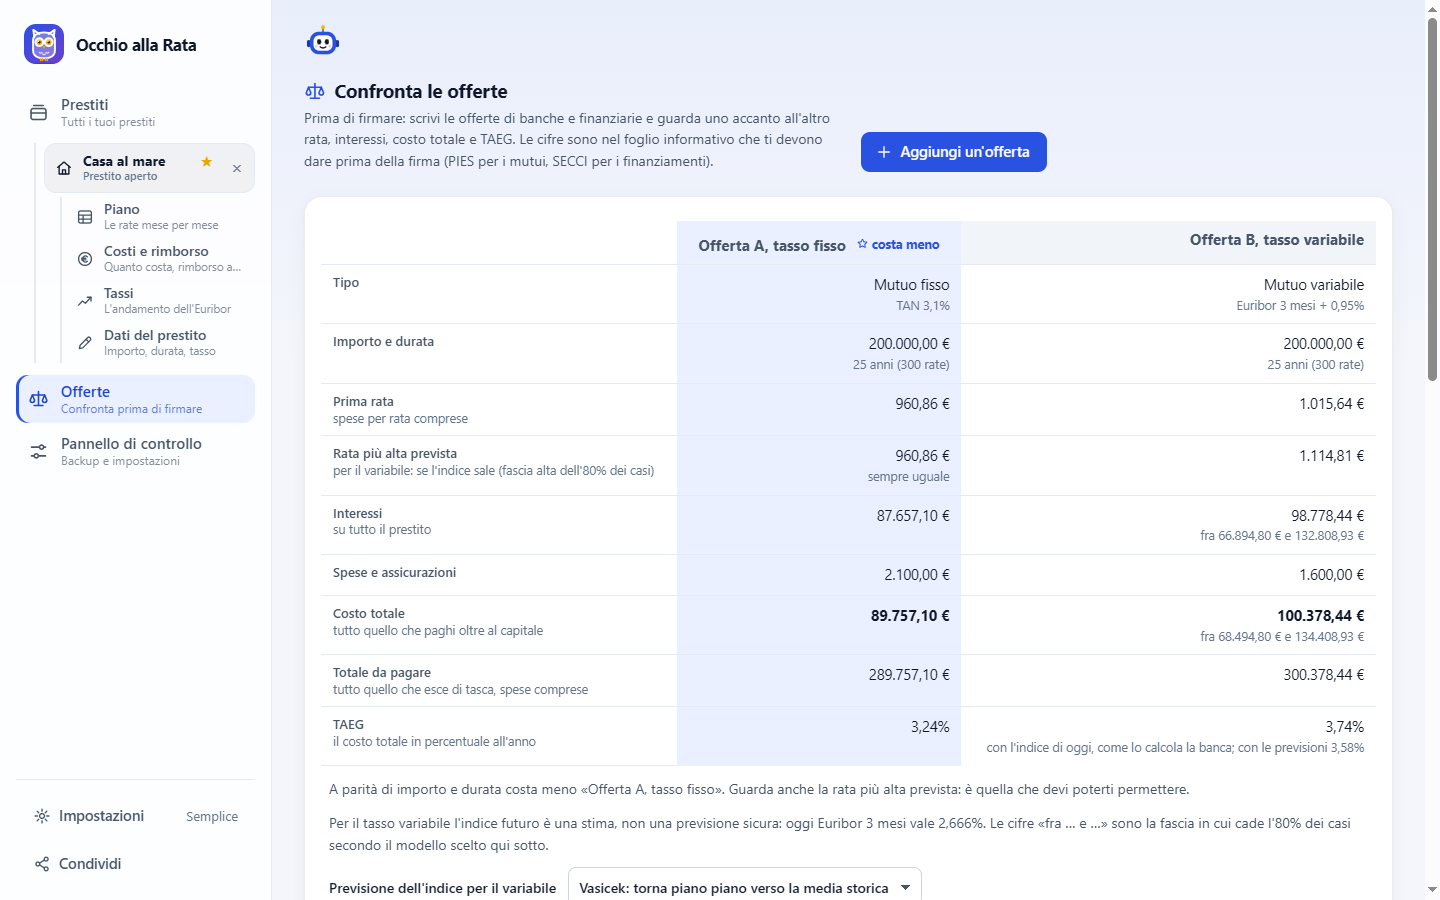
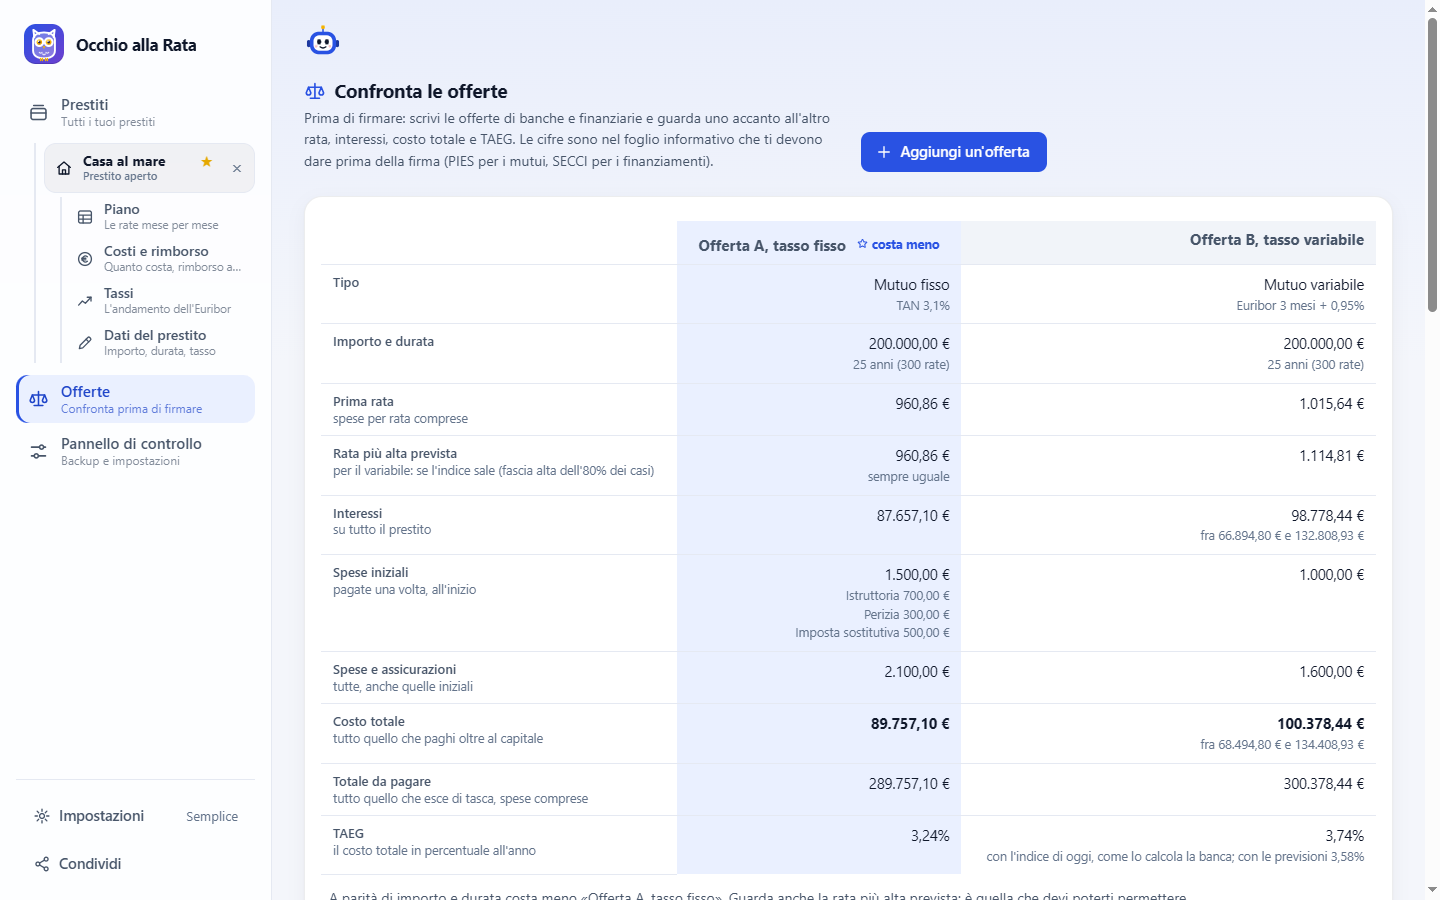
Confronto delle offerte: le spese iniziali voce per voce
La tabella di confronto mostrava solo il totale «Spese e assicurazioni»: chi
scrive le spese una per una non vedeva le differenze fra le offerte. Ora c'è
una riga «Spese iniziali» con il totale di ogni offerta e sotto le voci, una
per riga, più «fuori dal TAEG» per notaio e agenzia immobiliare. La riga
compare solo se almeno un'offerta ha spese iniziali. Rifatta la schermata
delle offerte del README; aggiornati README, VERSIONI.md e la sezione 44
della documentazione.

diff --git a/offerte.js b/offerte.js
@@ -57,6 +57,15 @@
   M.speseSospette = speseSospette;
 
   // ---------- Tabella di confronto ----------
+  // Le spese iniziali di un'offerta: il totale, poi una voce per riga (una sola: il suo nome), così le offerte si
+  // confrontano voce per voce; in fondo quali restano fuori dal TAEG (notaio, agenzia immobiliare).
+  function speseIniziali(e, p) {
+    if (!(p.spese_iniziali > 0)) return ['—'];
+    const voci = (p.spese_iniziali_voci || []).filter(v => v.euro > 0);
+    const fuori = e.atteso.c.speseFuoriTaeg > 0 ? voci.filter(v => Calcolo.fuoriDalTaeg(v.cosa)).map(v => `«${v.cosa}»`) : [];
+    return [euro(p.spese_iniziali), ...(voci.length === 1 ? [voci[0].cosa] : voci.map(v => `${v.cosa || 'altro'} ${euro(v.euro)}`)),
+      ...(fuori.length ? [`${fuori.join(' e ')} fuori dal TAEG`] : [])].filter(Boolean);
+  }
   function disegnaTabella(contenitore) {
     const offerte = Archivio.offerte(), modello = modelloScelto();
     const esiti = offerte.map(o => ({ o, e: calcola(o, modello) }));
@@ -76,7 +85,8 @@
       // A tasso fisso la rata è sempre quella (solo l'ultima, che chiude il debito, può cambiare di pochi euro).
       riga('Rata più alta prevista', 'per il variabile: se l\'indice sale (fascia alta dell\'80% dei casi)', e => e.fisso ? [euro(e.atteso.prima), piccolo('sempre uguale')] : [euro(e.alto.massima)]),
       riga('Interessi', 'su tutto il prestito', e => e.fisso ? [euro(e.atteso.c.interessi)] : [euro(e.atteso.c.interessi), forbice(e, 'interessi')]),
-      riga('Spese e assicurazioni', null, e => [euro(e.atteso.c.costoTotale - e.atteso.c.interessi)]),
+      ...(offerte.some(o => o.parametri.spese_iniziali > 0) ? [riga('Spese iniziali', 'pagate una volta, all\'inizio', (e, p) => speseIniziali(e, p).map((t, i) => i ? piccolo(t) : t))] : []),
+      riga('Spese e assicurazioni', 'tutte, anche quelle iniziali', e => [euro(e.atteso.c.costoTotale - e.atteso.c.interessi)]),
       riga('Costo totale', 'tutto quello che paghi oltre al capitale', e => e.fisso ? [crea('strong', {}, euro(e.atteso.c.costoTotale))] : [crea('strong', {}, euro(e.atteso.c.costoTotale)), forbice(e, 'costoTotale')]),
       riga('Totale da pagare', 'tutto quello che esce di tasca, spese comprese', e => [euro(e.atteso.c.totaleDaPagare)]),
       ...(offerte.some(o => o.parametri.anticipo > 0 && !variabile(o.parametri)) ? [riga('In tutto, con l\'anticipo', 'quanto paghi per l\'acquisto', (e, p) => [euro((variabile(p) ? 0 : p.anticipo || 0) + e.atteso.c.totaleDaPagare)])] : []),

diff --git a/docs/progetto-generale.md b/docs/progetto-generale.md
@@ -818,7 +818,7 @@ Nel repository c'è un file vuoto `.nojekyll` (25 ottobre 2026): dice a GitHub P
 Chiesto dall'utente: "possiamo migliorare il github in modo da presentare bene il progetto?", prima di renderlo pubblico.
 
 - **README**: in testa logo, nome, la frase «La banca ti addebita la rata giusta? Controllalo al centesimo.», i collegamenti (l'app su GitHub Pages, come si usa, domande, documentazione, contribuire) e due schermate, computer e telefono. Poi «Perché», «Che cosa fa», «I tuoi dati restano tuoi», una tabella di schermate, «Come si usa» (telefono, computer, primi passi) e le domande frequenti. La guida dettagliata di prima è intatta, dentro un riquadro richiudibile (`<details>`); le sezioni tecniche restano in fondo, con in più «Segnalazioni e contributi». I collegamenti alle segnalazioni sono relativi (`../../issues/new/choose`), così valgono anche se il repository cambia nome o proprietario.
-- **Schermate** (`docs/immagini/`, circa 2 MB): piano, tassi con la proiezione, costi e rimborso, offerte, benvenuto, tema Terminale, telefono chiaro e scuro. Sono fatte con **dati inventati** (un mutuo variabile «Casa al mare» di 180.000 € sull'Euribor 6 mesi, le cui rate passate sono prese dal calcolo, un finanziamento auto con maxirata e due offerte), da Edge senza finestra con lo script `crea-schermate.js` (nella cartella temporanea della sessione, non conservato): carica i dati con `Archivio.importa`, riempie le rate passate con `POST rate` dal piano calcolato, e fotografa a 1440×900 e a 390×844 (doppia densità). Vanno rifatte quando l'aspetto cambia molto. **Rifatte il 26 ottobre 2026** (chiesto dall'autore: GitHub va aggiornato con tutte le novità; mancavano «Condividi», il gufo accanto alla scritta di benvenuto e le pagine di oggi) con i prestiti di «Prova con degli esempi» (sezione 38: mutuo variabile «Casa al mare» sull'Euribor 3 mesi, le due offerte), copiati come dati normali in un profilo di prova perché non comparisse la striscia degli esempi; robottino richiuso, versione semplice, il variabile come principale, e «riduci movimento» attivo (`prefers-reduced-motion` emulato), così nessuna foto prende un'animazione a metà. Lo script, `crea-schermate.js`, sta nella cartella temporanea della sessione: per rifarle basta ripetere questi passi. **Il 27 ottobre 2026** è stata rifatta, con gli stessi passi, solo `costi.png`: sotto «Spese iniziali» ora ci sono le voci dell'esempio (sezione 44).
+- **Schermate** (`docs/immagini/`, circa 2 MB): piano, tassi con la proiezione, costi e rimborso, offerte, benvenuto, tema Terminale, telefono chiaro e scuro. Sono fatte con **dati inventati** (un mutuo variabile «Casa al mare» di 180.000 € sull'Euribor 6 mesi, le cui rate passate sono prese dal calcolo, un finanziamento auto con maxirata e due offerte), da Edge senza finestra con lo script `crea-schermate.js` (nella cartella temporanea della sessione, non conservato): carica i dati con `Archivio.importa`, riempie le rate passate con `POST rate` dal piano calcolato, e fotografa a 1440×900 e a 390×844 (doppia densità). Vanno rifatte quando l'aspetto cambia molto. **Rifatte il 26 ottobre 2026** (chiesto dall'autore: GitHub va aggiornato con tutte le novità; mancavano «Condividi», il gufo accanto alla scritta di benvenuto e le pagine di oggi) con i prestiti di «Prova con degli esempi» (sezione 38: mutuo variabile «Casa al mare» sull'Euribor 3 mesi, le due offerte), copiati come dati normali in un profilo di prova perché non comparisse la striscia degli esempi; robottino richiuso, versione semplice, il variabile come principale, e «riduci movimento» attivo (`prefers-reduced-motion` emulato), così nessuna foto prende un'animazione a metà. Lo script, `crea-schermate.js`, sta nella cartella temporanea della sessione: per rifarle basta ripetere questi passi. **Il 27 ottobre 2026** sono state rifatte, con gli stessi passi, solo `costi.png` e `offerte.png`: sotto «Spese iniziali» ora ci sono le voci dell'esempio, e il confronto delle offerte ha la riga nuova (sezione 44).
 - **Anteprima per i social** (`docs/immagini/anteprima-social.png`, 1280×640, sotto 1 MB come chiede GitHub): logo, nome, frase, tre punti e il telefono. Non si mostra da sola: va caricata a mano (sotto).
 - **Anteprima del link al sito** (25 ottobre 2026, chiesta per condividere il sito su LinkedIn): in testa a `index.html` ci sono la descrizione per i motori di ricerca (`description`) e i tag Open Graph e Twitter (titolo, descrizione, indirizzo, immagine). Quando il link al sito si incolla su LinkedIn, WhatsApp, Telegram o Facebook compare un riquadro con `anteprima-social.png`. L'immagine e l'indirizzo sono scritti per intero (`https://alessandrosallam-sys.github.io/occhio-alla-rata/…`), perché i social non accettano percorsi relativi: se il sito cambia indirizzo vanno aggiornati. `sw.js` non li mette nella copia offline: legge solo `src` e `href` senza `:`. LinkedIn tiene in memoria l'anteprima già vista: per rinfrescarla c'è il suo Post Inspector (https://www.linkedin.com/post-inspector/).
   **Dal 26 ottobre 2026** l'immagine dei tag è `anteprima-social.jpg`, una copia JPEG di 99 KB della PNG (478 KB). Più fonti riportano che WhatsApp non mostra l'immagine dell'anteprima oltre circa 300 KB (non c'è un limite scritto da WhatsApp): con la PNG il link arrivava senza figura. La copia l'ha fatta Edge senza finestra (la PNG mostrata a 1280×640 e fotografata in JPEG con qualità 86, script nella cartella temporanea della sessione): se si rifà la PNG, va rifatta anche lei. La PNG resta per GitHub (Social preview, fino a 1 MB). WhatsApp tiene in memoria l'anteprima di un link già mandato.
@@ -1126,6 +1126,7 @@ Prima le spese iniziali erano una casella sola (`spese_iniziali`): chi aveva per
 - **Dove compare**: lo stesso elenco serve alla guida a una domanda per pagina (percorso breve e offerte: `controlloBreve`, `leggiDomande`), al percorso completo (`creaDomanda`), alla pagina «Dati del prestito», alle «Regole del contratto» e alle carte delle offerte (`creaCampo`, `leggiCampi`, `aggiornaVisibili`, quest'ultima con il totale per la domanda su come sono state pagate). Gli ascoltatori di scrittura e di clic sono uno solo, su `document`: valgono per ogni elenco. Togliere una riga manda un evento `change`, così la carta di un'offerta si salva da sola e le domande che dipendono dalle spese si aggiornano. I moduli «Dati del prestito» e «Regole del contratto» confrontano i valori letti con quelli salvati come testo JSON (`soloCambiati`), perché le voci sono un elenco: senza cambiare niente dicono ancora «Nessun dato cambiato».
 - **Notaio e agenzia immobiliare** (`Calcolo.fuoriDalTaeg`, `Calcolo.speseFuoriTaeg` in `calcolo.js`): fra i nomi suggeriti ci sono il notaio e l'agenzia, che l'utente aveva chiesto, ma il TAEG per legge non conta le spese notarili (art. 120-quinquies e 121 del Testo unico bancario: il costo totale del credito esclude «quelle notarili»), e l'agenzia immobiliare è un costo della casa, non del prestito. Contarli nel TAEG lo avrebbe reso più alto di quello della banca, con l'avviso sbagliato «il TAEG del contratto è più basso del vero». Le voci il cui nome contiene «notai», «notar», «rogit» o «immobiliar» restano nel costo totale e nel totale da pagare, ma il TAEG le rimette nei soldi ricevuti. «Agenzia» da sola, il consulente e il mediatore del credito restano nel TAEG, come prevede la legge per i costi di mediazione. Nell'estinzione anticipata quelle voci non sono «costi restituiti». L'elenco lo dice sotto il totale (««Notaio» non entra nel TAEG: …»), e la tabella dei costi sotto «Spese iniziali».
 - **Nei riepiloghi**: le voci compaiono accanto al totale (`dettaglioSpese`, `M.dettaglioSpese`): «2.400,00 € (Istruttoria 900,00 €, Notaio 1.500,00 €)», con «altro» per una voce senza nome; una voce sola con il nome dice solo il nome. Così nel riepilogo della guida («Altre spese»), in quello dell'offerta, nella pagina «Dati del prestito» e nella tabella dei costi (`speseIniziali` in `costi.js`).
+- **Nel confronto delle offerte** (`speseIniziali` in `offerte.js`, chiesto dall'autore lo stesso giorno: «L'hai messo anche per confronto offerta?»): la tabella ha una riga «Spese iniziali», subito prima di «Spese e assicurazioni», con il totale di ogni offerta e sotto, in piccolo, una voce per riga («Istruttoria 700,00 €», «Perizia 300,00 €»…; una voce sola: il suo nome; senza nome: «altro»), così le offerte si confrontano voce per voce. In fondo alla cella, se ci sono, «Notaio» e agenzia immobiliare con «fuori dal TAEG». La riga c'è solo se almeno un'offerta ha spese iniziali; un'offerta senza ha il trattino. «Spese e assicurazioni» ora dice «tutte, anche quelle iniziali», perché le comprende. Il robottino spiega la riga con la frase di «Spese iniziali» della tabella dei costi.
 - **Testi**: domanda «Quali spese hai pagato all'inizio, una volta sola?», spiegazioni corte e lunghe, frasi del robottino, spiegazioni al passaggio del mouse per i pulsanti, la × e il totale (`spiegazioni.js`), aiuto del campo in `archivio.js`.
 - **Stile** (sezione 11 di `stile.css`): nella guida le caselle sono alte come le altre domande, nei moduli normali. L'elenco è un contenitore (`container: spese / inline-size`): sotto i 400 px (telefono, carte delle offerte) la cifra va a capo sotto il nome e ogni spesa sta in un riquadro, così si vede quale cifra va con quale nome.
 - **Esempi**: il mutuo «Casa al mare» e l'«Offerta A» hanno le spese iniziali scritte una per una (istruttoria, perizia, imposta sostitutiva), con lo stesso totale di prima.
@@ -1134,4 +1135,5 @@ Prima le spese iniziali erano una casella sola (`spese_iniziali`): chi aveva per
 
 - **Node** (script temporaneo): 22 controlli sul motore. Senza voci, e con voci senza notaio, i conti sono identici al solo totale; con il notaio il costo totale cresce della sua cifra e il TAEG non cambia; «agenzia immobiliare» e «spese notarili» fuori, il consulente dentro; con il solo notaio il TAEG è il tasso effettivo (1 + TAN/12)^12 − 1; dieci nomi riconosciuti o no come previsto; tre prestiti (fisso, finanziamento con le spese dentro il prestito, assicurazione facoltativa) con `Calcolo.costi` uguale campo per campo a quello del commit precedente.
 - **Edge senza finestra** (script temporaneo, 53 controlli, nessun errore in pagina): guida di un'offerta a tasso fisso (una riga vuota e il cursore lì, le sei voci pronte del mutuo, «Perizia» che riempie la riga vuota e sparisce, cursore sulla cifra, «In tutto: 1.300,00 €», il notaio con la nota sul TAEG, «Un'altra spesa», la riga con il nome e senza cifra che ferma «Avanti», la ×, le righe ritrovate tornando indietro, la domanda su come si pagano, il riepilogo con le voci, l'offerta salvata con le voci, nel confronto il notaio nel costo e non nel TAEG); la carta dell'offerta (tre righe, spiegazione come suggerimento, la × che salva da sola, una spesa nuova scritta con Tab dal nome alla cifra e salvata); un salvataggio di prima con il solo totale (che resta dopo due ricaricamenti) nella pagina «Dati del prestito» (una riga senza nome, «Nessun dato cambiato», istruttoria e notaio salvati, i dati in parole, la riga dei costi e il TAEG come con la sola istruttoria); il percorso completo (le righe, tutte tolte: una riga vuota e sparisce la domanda su come sono pagate; il riepilogo «250,00 € iniziali (Perizia)»; la configurazione salvata); le «Regole del contratto» nella versione avanzata («Nessuna regola modificata», una spesa aggiunta); un finanziamento sul telefono (le tre voci pronte, cifra sotto il nome dentro un riquadro, niente scorrimento orizzontale, nemmeno nelle offerte; sul computer su una riga, senza riquadro); gli esempi (totali di prima, voci nell'«Offerta A»). Guardate le schermate della guida (1440 e 390 px), della carta dell'offerta, del modulo dei dati e dei costi.
+- **Edge senza finestra, il confronto delle offerte** (script temporaneo, 15 controlli, nessun errore in pagina): con gli esempi l'«Offerta A» ha il totale e le tre voci in piccolo, l'«Offerta B» il solo totale; la riga sta prima di «Spese e assicurazioni», che dice di comprenderle; il notaio aggiunto dalla carta dell'offerta compare con «fuori dal TAEG», il costo totale cresce di 2.000 € e il TAEG resta uguale; una voce sola mostra il nome, una senza nome «altro», un'offerta senza spese il trattino; senza spese iniziali in nessuna offerta la riga sparisce; sul telefono la pagina non scorre di lato (la tabella scorre dentro la sua carta, come prima). Guardate le schermate a 1440 e 390 px.
 - **Non provato**: Safari e Firefox (le query sul contenitore ci sono da Safari 16 e Firefox 110); il percorso breve di un prestito già pagato fino alla domanda sulle spese (usa le stesse funzioni della guida delle offerte, provata).

diff --git a/README.md b/README.md
@@ -36,7 +36,7 @@ Occhio alla Rata parte da quello che hai sull'estratto conto: scrivi alcune rate
 - **Calcola il costo vero.** Interessi pagati e da pagare, spese, assicurazioni e TAEG, confrontato con quello del contratto. Le spese iniziali (perizia, istruttoria, notaio, consulente…) si scrivono una per riga: il totale lo fa il programma.
 - **Stima le rate future.** Previsioni dell'Euribor con più modelli statistici: di base usa quello che negli anni passati ha sbagliato di meno.
 - **Simula il rimborso anticipato.** Quanto risparmi rimborsando tutto o una parte, con penali e costi restituiti secondo la legge italiana.
-- **Confronta le offerte.** Prima di firmare: rata, interessi, costo totale e TAEG uno accanto all'altro.
+- **Confronta le offerte.** Prima di firmare: rata, interessi, spese voce per voce, costo totale e TAEG uno accanto all'altro.
 - **Segue più prestiti insieme.** Mutuo, auto, prestito personale, con i totali del mese.
 - **Si prova prima, con degli esempi.** «Prova con degli esempi» apre un prestito inventato per tipo, con le rate già pagate: per vedere come funziona prima di scrivere i propri dati, che restano come sono.
 - **È pensato per chi non sa niente di mutui.** Una domanda per pagina, spiegazioni semplici e un piccolo assistente che spiega ogni cosa al passaggio del mouse (sul telefono con «Che cos'è?»).
@@ -99,7 +99,7 @@ I dati restano sul dispositivo dove li scrivi: per passarli dal computer al tele
 4. Nella pagina **Tassi** ci sono i valori dell'indice. Se il tuo indice è un Euribor, il programma li scarica da solo a ogni apertura (vedi sotto); altrimenti li scrivi o li incolli a mano. Il grafico mostra tutta la storia dell'Euribor dal 1999 (all'inizio solo il periodo del tuo mutuo) e, a destra, la proiezione in avanti con diversi modelli statistici (media delle variazioni, nessun cambiamento, ARIMA, VAR, GARCH, Vasicek) o con le attese del mercato lette dalla curva degli Euribor di oggi, con le fasce di incertezza. Un confronto all'indietro dice quale modello ha sbagliato di meno negli anni passati. Ogni proiezione mostra anche cosa vorrebbe dire per le tue rate in tre scenari (fascia bassa, atteso, fascia alta), e puoi scegliere quale di questi usa il piano per stimare le rate future.
 5. Dal **Pannello di controllo** puoi salvare un backup di tutti i dati in un file e ricaricarlo (anche su un altro computer), e scegliere le impostazioni. Le regole del contratto e la taratura automatica stanno nella pagina **Regole del contratto** di ogni prestito (versione avanzata).
 6. Nella pagina **Costi e rimborso** di ogni prestito trovi **quanto costa il prestito**: interessi, spese, assicurazioni, costo totale e TAEG. Se scrivi il TAEG del contratto, il programma ti dice se il suo calcolo coincide. Sotto c'è l'**estinzione anticipata**: scegli quando e quanto rimborsare (tutto o una parte) e vedi interessi risparmiati, penale o indennizzo secondo la legge, costi restituiti e, per un rimborso parziale, la nuova rata o la nuova fine.
-7. **Devi ancora firmare?** Nella pagina **Offerte** (o dalla prima schermata, con «Confronta delle offerte») premi «Aggiungi un'offerta»: come per i prestiti, una domanda per pagina ti chiede i numeri del foglio informativo (PIES per i mutui, SECCI per i finanziamenti), dicendoti dove trovarli, e alla fine ti mostra l'offerta calcolata, con il TAEG confrontato con quello della banca. Se scrivi fra le spese per rata una cifra grande quanto la rata (succede: la rata la calcola il programma), te lo dice. Nel confronto rata, interessi, costo totale e TAEG compaiono uno accanto all'altro, e l'offerta che costa meno è evidenziata. Per il tasso variabile vedi anche quanto potrebbe salire la rata, secondo un modello di previsione dell'indice. Quando hai scelto, «Segui questo prestito» passa i dati alla configurazione guidata.
+7. **Devi ancora firmare?** Nella pagina **Offerte** (o dalla prima schermata, con «Confronta delle offerte») premi «Aggiungi un'offerta»: come per i prestiti, una domanda per pagina ti chiede i numeri del foglio informativo (PIES per i mutui, SECCI per i finanziamenti), dicendoti dove trovarli, e alla fine ti mostra l'offerta calcolata, con il TAEG confrontato con quello della banca. Se scrivi fra le spese per rata una cifra grande quanto la rata (succede: la rata la calcola il programma), te lo dice. Nel confronto rata, interessi, costo totale e TAEG compaiono uno accanto all'altro, con le spese iniziali di ogni offerta voce per voce (istruttoria, perizia, notaio…), e l'offerta che costa meno è evidenziata. Per il tasso variabile vedi anche quanto potrebbe salire la rata, secondo un modello di previsione dell'indice. Quando hai scelto, «Segui questo prestito» passa i dati alla configurazione guidata.
 8. Hai più di un prestito? Nella pagina **Prestiti** li vedi tutti, con il totale delle rate del mese e del debito residuo, e con «Aggiungi un prestito» ne segui un altro. Le pagine di ciascuno compaiono quando ci entri.
 
 Nella pagina Tassi (versione avanzata) il modulo della proiezione sta richiuso in una riga sotto il grafico («Cambia» lo apre). Sul telefono il menù generale è nella barra in basso, le pagine del prestito aperto in una barra sotto la testata (scorre di lato), e la tabella del piano scorre in orizzontale tenendo ferma la colonna delle rate. Il tema chiaro o scuro segue quello del sistema.

diff --git a/VERSIONI.md b/VERSIONI.md
@@ -9,7 +9,7 @@ Il [sito](https://alessandrosallam-sys.github.io/occhio-alla-rata/) si aggiorna 
 Già sul sito, non ancora in una versione numerata.
 
 - **Le rate bastano**: mentre scrivi le rate, appena i conti tornano tutti al centesimo il programma lo dice in chiaro («Basta così: non serve scrivere altre rate») e «Avanti» passa a «Ci penso io» invece di chiederti la rata dopo. Se vuoi scriverne altre lo stesso, c'è un pulsante apposta.
-- **Le spese iniziali una per una**: invece di un solo numero da sommare a mano, scrivi ogni spesa nella sua riga (perizia, istruttoria, notaio, consulente…), con il nome se vuoi, e il totale lo fa il programma. I pulsanti aggiungono le spese più comuni con il nome già scritto; la × toglie una riga. Vale nella guida, nelle offerte e nei dati del prestito. Il notaio e l'agenzia immobiliare contano nel costo totale ma non nel TAEG, come per legge, così il confronto con il TAEG della banca resta giusto.
+- **Le spese iniziali una per una**: invece di un solo numero da sommare a mano, scrivi ogni spesa nella sua riga (perizia, istruttoria, notaio, consulente…), con il nome se vuoi, e il totale lo fa il programma. I pulsanti aggiungono le spese più comuni con il nome già scritto; la × toglie una riga. Vale nella guida, nelle offerte e nei dati del prestito; nel confronto delle offerte le spese iniziali di ognuna si vedono voce per voce, una sotto l'altra. Il notaio e l'agenzia immobiliare contano nel costo totale ma non nel TAEG, come per legge, così il confronto con il TAEG della banca resta giusto.
 
 ## 1.1 (26 ottobre 2026)
 
